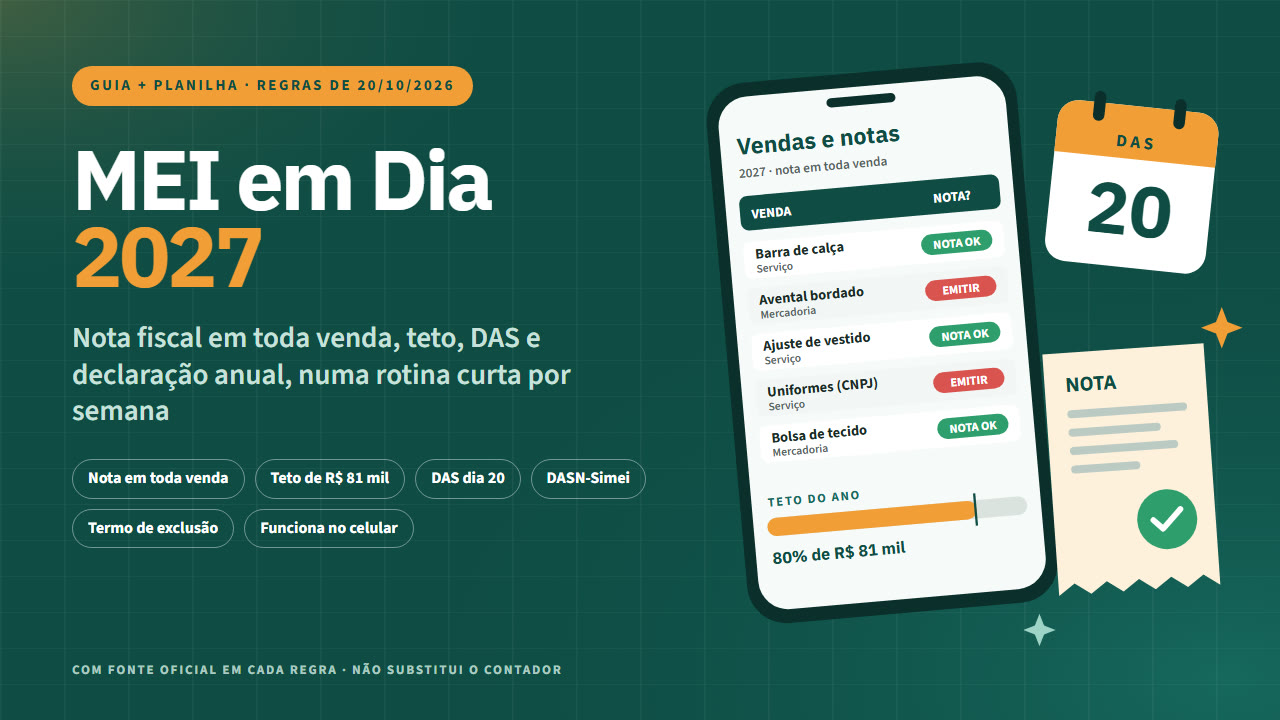
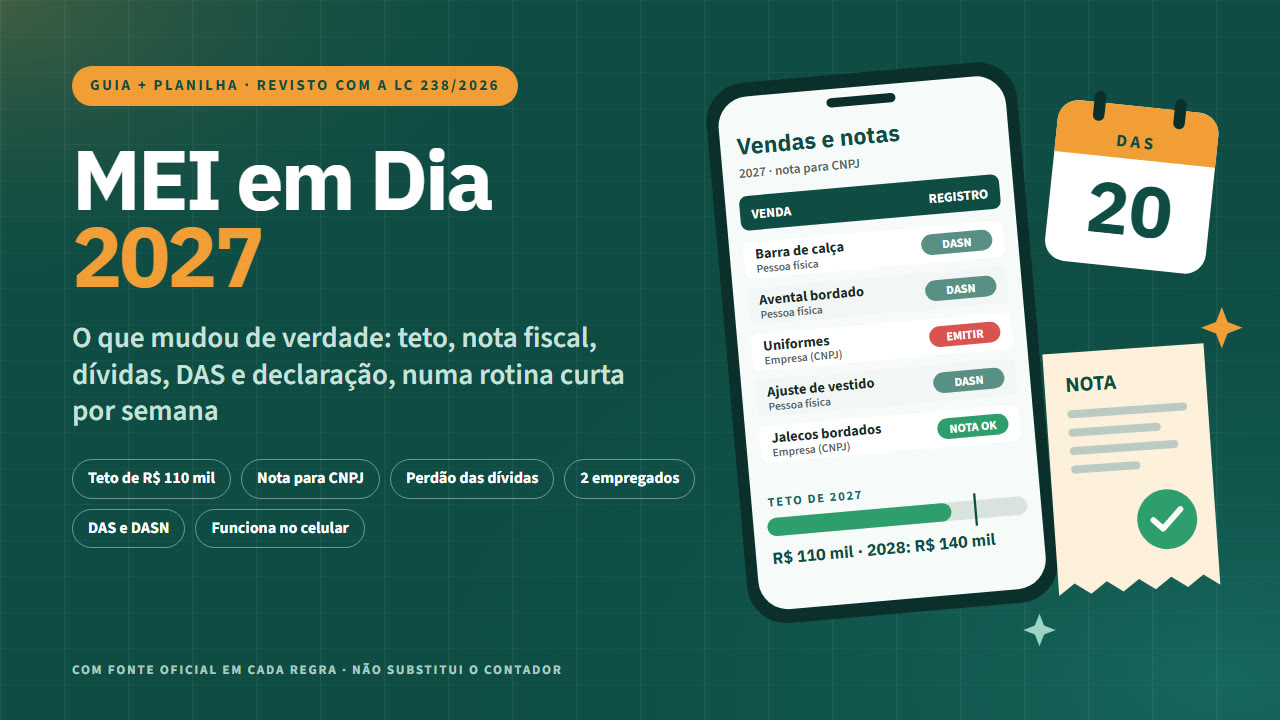
Pagina: MEI 2027, o que mudou de verdade (LC 238/2026 e Res. CGSN 195/2026)
Tira 'nota em toda venda' e o teto de R$ 81 mil para 2027; teto de R$ 110 mil,
nota obrigatoria para CNPJ, DASN-Simei como documento fiscal da venda a pessoa
fisica, perdao do INSS do DAS e ate 2 empregados. Script de UTM mantido.

diff --git a/index.html b/index.html
@@ -1,11 +1,11 @@
 <!doctype html>
 <html lang="pt-BR"><head><meta charset="utf-8"><meta name="viewport" content="width=device-width,initial-scale=1,viewport-fit=cover">
-<title>MEI em Dia 2027: nota fiscal em toda venda, teto, DAS e declaração</title>
-<meta name="description" content="Guia e planilha para o MEI se organizar para 2027: nota em toda venda, teto de R$ 81 mil com alerta, DAS no dia 20 e declaração anual. Funciona no celular.">
-<meta property="og:type" content="website"><meta property="og:title" content="MEI em Dia 2027"><meta property="og:description" content="Guia e planilha para o MEI se organizar para 2027: nota em toda venda, teto de R$ 81 mil com alerta, DAS no dia 20 e declaração anual. Funciona no celular.">
+<title>MEI em Dia 2027: o que mudou de verdade (teto de R$ 110 mil, nota, dívidas)</title>
+<meta name="description" content="O que mudou de verdade no MEI em 2027, com a LC 238/2026 e a Resolução CGSN 195/2026: teto de R$ 110 mil, nota fiscal obrigatória para cliente com CNPJ, perdão do INSS do DAS em atraso até 13/10/2026, até 2 empregados, DAS e declaração. Guia e planilha que funcionam no celular.">
+<meta property="og:type" content="website"><meta property="og:title" content="MEI em Dia 2027"><meta property="og:description" content="O que mudou de verdade no MEI em 2027, com a LC 238/2026 e a Resolução CGSN 195/2026: teto de R$ 110 mil, nota fiscal obrigatória para cliente com CNPJ, perdão do INSS do DAS em atraso até 13/10/2026, até 2 empregados, DAS e declaração. Guia e planilha que funcionam no celular.">
 <meta property="og:url" content="https://lucaszone36-jpg.github.io/mei-em-dia-2027/"><meta property="og:image" content="https://lucaszone36-jpg.github.io/mei-em-dia-2027/img/capa.jpg"><meta name="twitter:card" content="summary_large_image">
 <link rel="icon" href="favicon.svg" type="image/svg+xml">
-<script>!function(f,b,e,v,n,t,s){if(f.fbq)return;n=f.fbq=function(){n.callMethod?n.callMethod.apply(n,arguments):n.queue.push(arguments)};if(!f._fbq)f._fbq=n;n.push=n;n.loaded=!0;n.version='2.0';n.queue=[];t=b.createElement(e);t.async=!0;t.src=v;s=b.getElementsByTagName(e)[0];s.parentNode.insertBefore(t,s)}(window,document,'script','https://connect.facebook.net/en_US/fbevents.js');fbq('init','474807754604596');fbq('track','PageView');fbq('track','ViewContent',{content_name:"MEI em Dia 2027: nota fiscal em toda venda, teto, DAS e declara\u00e7\u00e3o",content_type:'product',value:27,currency:'BRL'});</script><noscript><img height="1" width="1" style="display:none" alt="" src="https://www.facebook.com/tr?id=474807754604596&ev=PageView&noscript=1"></noscript>
+<script>!function(f,b,e,v,n,t,s){if(f.fbq)return;n=f.fbq=function(){n.callMethod?n.callMethod.apply(n,arguments):n.queue.push(arguments)};if(!f._fbq)f._fbq=n;n.push=n;n.loaded=!0;n.version='2.0';n.queue=[];t=b.createElement(e);t.async=!0;t.src=v;s=b.getElementsByTagName(e)[0];s.parentNode.insertBefore(t,s)}(window,document,'script','https://connect.facebook.net/en_US/fbevents.js');fbq('init','474807754604596');fbq('track','PageView');fbq('track','ViewContent',{content_name:"MEI em Dia 2027: o que mudou de verdade",content_type:'product',value:27,currency:'BRL'});</script><noscript><img height="1" width="1" style="display:none" alt="" src="https://www.facebook.com/tr?id=474807754604596&ev=PageView&noscript=1"></noscript>
 <link rel="preconnect" href="https://fonts.googleapis.com"><link rel="preconnect" href="https://fonts.gstatic.com" crossorigin>
 <link href="https://fonts.googleapis.com/css2?family=Fraunces:opsz,wght@9..144,600&display=swap" rel="stylesheet">
 <style>
@@ -40,22 +40,22 @@ footer{padding:34px 0;font-size:13px;color:var(--suave)}footer a{color:var(--sua
 <body><main>
 <header class="hero"><div class="wrap grade">
   <div><span class="selo">Para MEI que vende produto ou serviço</span><p class="marca">MEI em Dia 2027</p>
-    <h1>Nota fiscal em toda venda, teto, DAS e declaração</h1><p class="sub">Guia e planilha para o MEI se organizar para 2027: nota em toda venda, teto de R$ 81 mil com alerta, DAS no dia 20 e declaração anual. Funciona no celular.</p>
-    <a class="cta" href="https://pay.kiwify.com.br/ZHlcpy0">Quero o meu por R$ 27</a><p class="pequeno" style="margin-top:10px">Guia de 30 páginas + planilha + exemplo + 2 vídeo-aulas · acesso na hora · garantia de 7 dias</p></div>
+    <h1>MEI 2027: o que mudou de verdade</h1><p class="sub">O que mudou de verdade no MEI em 2027, com a LC 238/2026 e a Resolução CGSN 195/2026: teto de R$ 110 mil, nota fiscal obrigatória para cliente com CNPJ, perdão do INSS do DAS em atraso até 13/10/2026, até 2 empregados, DAS e declaração. Guia e planilha que funcionam no celular.</p>
+    <a class="cta" href="https://pay.kiwify.com.br/ZHlcpy0">Quero o meu por R$ 27</a><p class="pequeno" style="margin-top:10px">Guia de 32 páginas + planilha + exemplo + 2 vídeo-aulas · acesso na hora · garantia de 7 dias</p></div>
   <img class="capa" src="img/capa.jpg" width="1280" height="720" alt="Capa do ebook MEI em Dia 2027" fetchpriority="high">
 </div></header>
-<section><div class="wrap estreito"><h2>O que muda em 2027</h2><ul class="dores"><li>Em <b>1º de janeiro de 2027</b> muda uma regra que mexe com o dia a dia de quase todo MEI: a nota fiscal passa a ser obrigatória em <b>toda venda e todo serviço, inclusive para quem compra como pessoa física</b>. Hoje, a nota só é obrigatória quando o cliente tem CNPJ. A mudança está na Lei Complementar 214/2025 (art. 517) e já foi regulamentada pela Resolução CGSN 190, de agosto de 2026.</li></ul>
-  <p>Junto com ela continuam as obrigações de sempre: o teto de R$ 81 mil por ano, o DAS de todo mês, a declaração anual em maio e a atenção às dívidas, que podem tirar o MEI do Simples. O <b>MEI em Dia 2027</b> junta tudo numa rotina curta por semana (no exemplo do guia, cerca de 15 minutos).</p></div></section>
-<section class="cor"><div class="wrap"><h2>O que tem dentro</h2><ul class="dentro"><li><b>Planilha MEI em Dia:</b> uma linha por venda, com o alerta EMITIR NOTA quando falta a nota. Funciona no Excel, no Google Planilhas e no celular, sem macro.</li><li><b>Teto com alerta:</b> quanto dos R$ 81 mil do ano já foi usado, com aviso em 80% e em 100%, e o teto proporcional do ano de abertura.</li><li><b>Calendário:</b> os vencimentos do DAS (dia 20 ou o dia útil seguinte) e da declaração anual, com o que está pago e o que vence.</li><li><b>Declaração anual:</b> receita total, parte de comércio e parte de serviços, prontas para conferir.</li><li><b>Planilha de exemplo:</b> dez meses de uma MEI fictícia, com 534 vendas, para ver tudo funcionando.</li><li><b>Guia em PDF de 30 páginas:</b> o que muda em 2027, qual nota emitir (NFS-e nacional ou nota do estado), teto, DAS, declaração, dívidas e quando procurar um contador, com a fonte oficial no fim de cada capítulo.</li><li><b>Checklist para imprimir</b> e como conferir se uma regra mudou.</li><li><b>Vídeo-aulas:</b> 2 vídeo-aulas de 2 a 3 minutos: o que muda em 2027 e como usar a planilha, com narração gerada por inteligência artificial (rotulada em cada aula).</li></ul>
+<section><div class="wrap estreito"><h2>O que mudou em outubro de 2026</h2><ul class="dores"><li><b>Teto maior.</b> A Lei Complementar 238/2026, sancionada em 21/10/2026, sobe o limite do MEI para <b>R$ 110 mil em 2027</b> e <b>R$ 140 mil a partir de 2028</b>. Em 2026 continua R$ 81 mil.</li><li><b>Nota fiscal.</b> Para cliente com CNPJ, a nota continua obrigatória. Para pessoa física sem CNPJ, a partir de 2027 a declaração anual (DASN-Simei) pode valer como documento fiscal dessas vendas (Resolução CGSN 195/2026, publicada em 22/10/2026). O que passa a pesar é o registro de vendas.</li><li><b>Dívidas.</b> A mesma lei perdoa a contribuição do INSS do DAS devida até 13/10/2026, com juros e multas, com contrapartidas. ICMS e ISS não entram, e a forma de pedir ainda depende de ato da PGFN.</li><li><b>Até 2 empregados</b> a partir de 1º de janeiro de 2027.</li></ul>
+  <p>Continuam as obrigações de sempre: o DAS de todo mês, a declaração anual em maio e o teto do ano. O <b>MEI em Dia 2027</b> explica cada mudança com o artigo da lei e junta tudo numa rotina curta por semana (no exemplo do guia, cerca de 15 minutos).</p></div></section>
+<section class="cor"><div class="wrap"><h2>O que tem dentro</h2><ul class="dentro"><li><b>Planilha MEI em Dia:</b> o registro de vendas, uma linha por venda, com o alerta EMITIR NOTA quando uma venda para cliente com CNPJ fica sem nota. Funciona no Excel, no Google Planilhas e no celular, sem macro.</li><li><b>Teto com alerta:</b> o teto certo de cada ano (R$ 81 mil, R$ 110 mil ou R$ 140 mil) e quanto já foi usado, com aviso em 80% e em 100%, e o teto proporcional do ano de abertura.</li><li><b>Calendário:</b> os vencimentos do DAS (dia 20 ou o dia útil seguinte) e da declaração anual, com o que está pago e o que vence.</li><li><b>Declaração anual:</b> receita total, parte de comércio e parte de serviços, prontas para conferir.</li><li><b>Planilha de exemplo:</b> dez meses de uma MEI fictícia, com 534 vendas, para ver tudo funcionando.</li><li><b>Guia em PDF de 32 páginas:</b> o que mudou em 2027, quando a nota é obrigatória e qual emitir (NFS-e nacional ou nota do estado), teto, DAS, declaração, o perdão das dívidas da LC 238 e quando procurar um contador, com a fonte oficial no fim de cada capítulo.</li><li><b>Checklist para imprimir</b> e a lista do que ainda depende de regulamento, com como conferir.</li><li><b>Vídeo-aulas:</b> 2 vídeo-aulas de 2 a 3 minutos: o que mudou em 2027 e como usar a planilha, com narração gerada por inteligência artificial (rotulada em cada aula).</li></ul>
   <p style="margin-top:24px"><a class="cta" href="https://pay.kiwify.com.br/ZHlcpy0">Quero começar hoje</a></p></div></section>
-<section><div class="wrap estreito"><div class="pq"><div><h3>É para você se…</h3><ul><li>MEI que presta serviço, vende produto ou faz os dois.</li><li>Quem vende para pessoa física pelo balcão, WhatsApp, Instagram ou feira e vai passar a emitir muito mais notas.</li><li>Quem quer saber, toda semana, quanto do teto já usou e o que vence.</li></ul></div><div><h3>Não é para você se…</h3><ul><li>Quem precisa de contabilidade, abertura de empresa ou emissão de nota feita por outra pessoa: este é um material de estudo e organização.</li><li>Quem procura orientação tributária individual.</li><li>Microempresa fora do MEI.</li></ul></div></div>
-  <p class="aviso" style="margin-top:18px"><b>O que este produto NÃO é:</b> não é contabilidade e <b>não substitui o contador</b>. O material informa as regras gerais e organiza os seus números; o que vale para o seu caso, confirme com um contador ou nos canais gratuitos (Portal do Empreendedor, gov.br/mei, e Sebrae). Não emite nota, não paga o DAS e não entrega a declaração. Não garante evitar multa, fiscalização ou desenquadramento. Sem vínculo com o governo, a Receita Federal, o Sebrae nem o Emissor Nacional. Regras conferidas nas fontes oficiais em 20/10/2026; o guia mostra como conferir se algo mudou.</p></div></section>
+<section><div class="wrap estreito"><div class="pq"><div><h3>É para você se…</h3><ul><li>MEI que presta serviço, vende produto ou faz os dois.</li><li>Quem vende pelo balcão, WhatsApp, Instagram ou feira e quer o registro de vendas em ordem para a declaração anual.</li><li>Quem quer saber, toda semana, quanto do teto já usou, o que vence e se tem dívida que entra no perdão.</li></ul></div><div><h3>Não é para você se…</h3><ul><li>Quem precisa de contabilidade, abertura de empresa ou emissão de nota feita por outra pessoa: este é um material de estudo e organização.</li><li>Quem procura orientação tributária individual.</li><li>Microempresa fora do MEI.</li></ul></div></div>
+  <p class="aviso" style="margin-top:18px"><b>O que este produto NÃO é:</b> não é contabilidade e <b>não substitui o contador</b>. O material informa as regras gerais e organiza os seus números; o que vale para o seu caso, confirme com um contador ou nos canais gratuitos (Portal do Empreendedor, gov.br/mei, e Sebrae). Não emite nota, não paga o DAS e não entrega a declaração. Não garante evitar multa, fiscalização ou desenquadramento. Sem vínculo com o governo, a Receita Federal, o Sebrae nem o Emissor Nacional. Regras conferidas nas fontes oficiais em 27/10/2026, já com a LC 238/2026 e a Resolução CGSN 195/2026; alguns pontos ainda dependem de regulamento, e o guia mostra como conferir.</p></div></section>
 <section class="preco" id="preco"><div class="wrap estreito"><h2>Tudo por um pagamento único</h2>
-  <div class="valor">R$ 27 <small>uma vez</small></div><p class="pequeno">Guia de 30 páginas + planilha + exemplo + 2 vídeo-aulas · sem mensalidade</p>
+  <div class="valor">R$ 27 <small>uma vez</small></div><p class="pequeno">Guia de 32 páginas + planilha + exemplo + 2 vídeo-aulas · sem mensalidade</p>
   <p style="margin-top:22px"><a class="cta" href="https://pay.kiwify.com.br/ZHlcpy0">Garantir o meu agora</a></p><p class="pequeno">Pix ou cartão · acesso imediato pela área de membros da Kiwify (o link chega no seu e-mail)</p></div></section>
 <section><div class="wrap estreito"><div class="garantia"><div class="selo-g"><div><b>7</b>dias<br><small>100% de volta</small></div></div>
   <div><h2>Leia por 7 dias. Se não servir, o dinheiro volta inteiro.</h2><p>Peça o reembolso pela Kiwify ou pelo e-mail <a href="mailto:lucaszone36@gmail.com">lucaszone36@gmail.com</a>, sem precisar explicar. Esse prazo é um direito seu pelo Código de Defesa do Consumidor.</p><a class="cta" href="https://pay.kiwify.com.br/ZHlcpy0">Quero testar sem risco</a></div></div></div></section>
-<section class="cor"><div class="wrap estreito"><h2>Perguntas frequentes</h2><details><summary>Como recebo?</summary><p>Acesso imediato pela área de membros da Kiwify. O link de acesso chega no e-mail informado na compra.</p></details><details><summary>Consigo ler no celular?</summary><p>Sim. O PDF abre no celular, no tablet e no computador.</p></details><details><summary>Substitui o contador?</summary><p>Não. O material informa as regras gerais e organiza os seus números. O que vale para o seu caso, confirme com um contador ou nos canais gratuitos: Portal do Empreendedor (gov.br/mei) e Sebrae.</p></details><details><summary>A planilha emite a nota?</summary><p>Não. Ela não emite nota, não paga o DAS e não entrega a declaração. Ela mostra o que falta emitir e calcula com o que você digita.</p></details><details><summary>As regras estão atualizadas?</summary><p>Foram conferidas nas fontes oficiais em 20/10/2026 (LC 214/2025 e Resolução CGSN 190/2026). Há projetos de lei em andamento; o guia mostra como conferir se algo mudou.</p></details><details><summary>Garante que não vou levar multa?</summary><p>Não. O material organiza a rotina, mas não garante evitar multa, fiscalização ou desenquadramento.</p></details><details><summary>E se eu me arrepender?</summary><p>Você tem 7 dias para pedir 100% do valor de volta, sem justificar, pela Kiwify ou pelo e-mail lucaszone36@gmail.com.</p></details></div></section>
+<section class="cor"><div class="wrap estreito"><h2>Perguntas frequentes</h2><details><summary>Como recebo?</summary><p>Acesso imediato pela área de membros da Kiwify. O link de acesso chega no e-mail informado na compra.</p></details><details><summary>Consigo ler no celular?</summary><p>Sim. O PDF abre no celular, no tablet e no computador.</p></details><details><summary>Substitui o contador?</summary><p>Não. O material informa as regras gerais e organiza os seus números. O que vale para o seu caso, confirme com um contador ou nos canais gratuitos: Portal do Empreendedor (gov.br/mei) e Sebrae.</p></details><details><summary>A planilha emite a nota?</summary><p>Não. Ela não emite nota, não paga o DAS e não entrega a declaração. Ela mostra as vendas para empresa que estão sem nota e calcula com o que você digita.</p></details><details><summary>As regras estão atualizadas?</summary><p>Sim. Foram conferidas nas fontes oficiais em 27/10/2026, já com a Lei Complementar 238/2026 (teto, empregados e perdão das dívidas) e a Resolução CGSN 195/2026 (declaração anual como documento fiscal da venda a pessoa física). O que ainda depende de regulamento está marcado no guia.</p></details><details><summary>Vou ter que emitir nota para toda venda em 2027?</summary><p>Não. Para cliente com CNPJ, a nota é obrigatória. Para pessoa física sem CNPJ, a Resolução CGSN 195/2026 diz que a declaração anual pode valer como documento fiscal dessas vendas, a partir de 2027. O guia explica a regra e os pontos que ainda dependem de regulamento.</p></details><details><summary>Garante que não vou levar multa?</summary><p>Não. O material organiza a rotina, mas não garante evitar multa, fiscalização ou desenquadramento.</p></details><details><summary>E se eu me arrepender?</summary><p>Você tem 7 dias para pedir 100% do valor de volta, sem justificar, pela Kiwify ou pelo e-mail lucaszone36@gmail.com.</p></details></div></section>
 </main>
 <footer><div class="wrap"><p>Conteúdo criado com apoio de inteligência artificial e revisado por pessoas. Não prometemos resultados. Imagens ilustrativas. Este site não é da Meta nem do Facebook e não é endossado por essas empresas.</p>
 <p>Venda intermediada pela Kiwify: os dados completos do vendedor (nome e documento) aparecem no checkout, antes do pagamento. Responsável: Lucas · contato: <a href="mailto:lucaszone36@gmail.com">lucaszone36@gmail.com</a> · <a href="privacidade.html">Política de privacidade</a> · <a href="termos.html">Termos de uso</a></p></div></footer>
